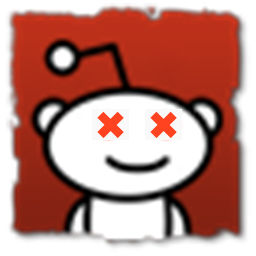
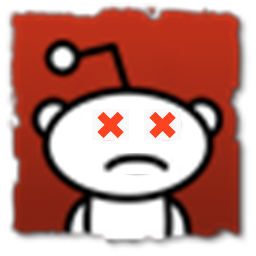
sad snoo and remove pen

Changed region(s): [[0.375, 0.5938, 0.6875, 0.6875], [0.5625, 0.4375, 0.6875, 0.5625]]

diff --git a/assets/minus.css b/assets/minus.css
@@ -651,10 +651,11 @@ h2
 	text-align: center;
 
 	width: 900px;
+	/*
 	background: url('https://b.thumbs.redditmedia.com/YqaAFvkYSlBRejljti-UVtCsPaVbI3PLeC5-9QZCmyg.png') no-repeat;
 	background-size: 1000px;
 	padding-right: 50px;
-	padding-left: 50px;
+	padding-left: 50px;*/
 }
 
 
